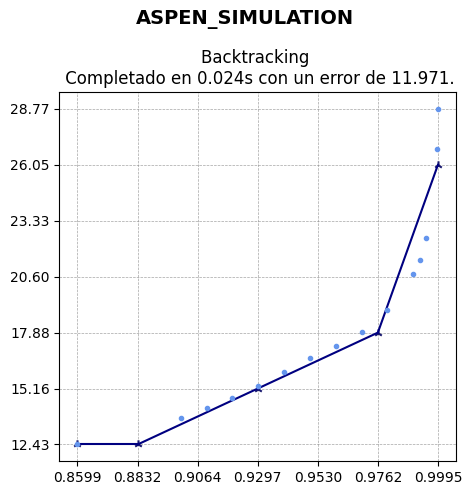
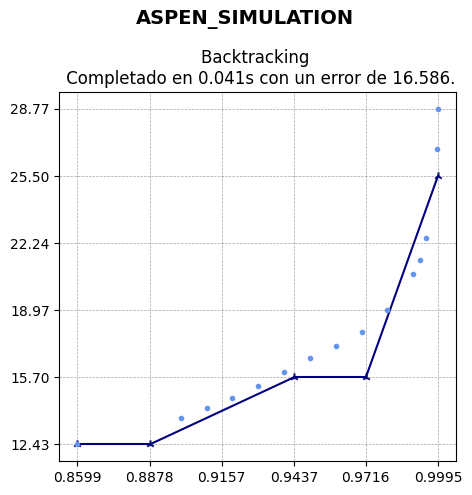
testing

diff --git a/src/python/programaciondinamica.py b/src/python/programaciondinamica.py
@@ -1,65 +1,46 @@
 import json
 import numpy as np
+import os
+import time
 
-def calcular_error(a: tuple, b: tuple, grid_x, grid_y, instance):
-    # Inicializa el error acumulado a 0.
-    error = 0
-    
-    # Extrae las coordenadas x e y para el punto a y b usando los índices de a en las grillas grid_x y grid_y.
-    ax, ay = grid_x[a[0]], grid_y[a[1]]
-    bx, by = grid_x[b[0]], grid_y[b[1]]
-    
-    # Itera sobre cada punto x en el conjunto de datos.
-    for i, x in enumerate(instance["x"]):
-        # Si el punto actual x está entre ax y bx...
-        if ax <= x <= bx:
-            # Calculamos el valor de y predicho por la recta que pasa por a y b.
-            predicted_y = ((by - ay) / (bx - ax)) * (x - ax) + ay
-            # Acumulamos el error absoluto entre el y predicho y el y real para este punto.
-            error += abs(instance["y"][i] - predicted_y)
-    
-    # Devuelve el error total acumulado para todos los puntos en el rango de interés.
-    return error
+from graphing import plot_graph
+from shared import calcular_error
 
 def programacion_dinamica_recursiva(m, n, N, instance, i, bp, error_total, combinaciones, memoria, grid_x, grid_y):
     # Si se han alcanzado N breakpoints, registra la combinación actual y su error total.
-    if len(bp) == N and bp[-1][0] == m-1:
+    if len(bp) == N and bp[-1][0] == m-1 and bp[0][0] == 0:
         combinaciones[tuple(bp)] = round(error_total, 3)
-        #print(combinaciones)
         return bp, error_total, combinaciones
-
 
     if not bp:
         # Si es el primer breakpoint, llama recursivamente sin añadir error.
         for z in range(m):
             new_bp = [(0,z)]
             programacion_dinamica_recursiva(m, n, N, instance, 0, new_bp, error_total,combinaciones, memoria, grid_x, grid_y)
-
-    
+    elif len(bp)< N: #Magia de luli.
     # Itera sobre todas las posibles posiciones y para el próximo breakpoint.
-    for j in range(m):
-        # Verifica si aún se pueden agregar breakpoints.
-        for k in range(i+1,n):
-            # Crea una nueva lista de breakpoints añadiendo el punto actual (next_i, j).
-            new_bp = bp + [(k, j)]
-            # Si ya hay breakpoints, calcula el error con el nuevo punto.
-            if bp:
-                error = calcular_error(bp[-1], (k, j), grid_x, grid_y, instance)
-                # Si la clave está en memoria significa que ya calculé su error.
-                if (str(k)+","+str(j)) in memoria:
-                    # Si el error almacenado es mayor al actual
-                    if memoria[str(k)+","+str(j)] > error_total + error:
-                        # Lo actualizo, no era el mínimo. 
+        for j in range(m):
+            # Verifica si aún se pueden agregar breakpoints.
+            for k in range(i+1,n):
+                # Calcula el índice del próximo punto x a agregar, limitado por el último índice de la grilla (m - 1).
+
+                # Crea una nueva lista de breakpoints añadiendo el punto actual (next_i, j).
+                new_bp = bp + [(k, j)]
+
+                # Si ya hay breakpoints, calcula el error con el nuevo punto.
+                if bp:
+                    error = calcular_error(bp[-1], (k, j), grid_x, grid_y, instance)
+                    if (str(k)+","+str(j)) in memoria:
+                        if memoria[str(k)+","+str(j)] > error_total + error:
+                            memoria[str(k)+","+str(j)] = error_total + error
+                            programacion_dinamica_recursiva(m, n, N, instance, k, new_bp, error_total + error,combinaciones, memoria, grid_x, grid_y)
+                        elif(memoria[str(k)+","+str(j)] == error_total + error):
+                            programacion_dinamica_recursiva(m, n, N, instance, k, new_bp, error_total + error,combinaciones, memoria, grid_x, grid_y)
+                    else:
                         memoria[str(k)+","+str(j)] = error_total + error
                         programacion_dinamica_recursiva(m, n, N, instance, k, new_bp, error_total + error,combinaciones, memoria, grid_x, grid_y)
-                    # Si lo que está almacenado tiene el mismo error que el actual, sigue con la recurisón.
-                    elif(memoria[str(k)+","+str(j)] == error_total + error):
-                        programacion_dinamica_recursiva(m, n, N, instance, k, new_bp, error_total + error,combinaciones, memoria, grid_x, grid_y)
-                else:
-                    # Si entra a esta instancia significa que no había nada en memoria, agrego el valor. 
-                    memoria[str(k)+","+str(j)] = error_total + error
+
                     # Llama recursivamente para agregar el próximo breakpoint con el nuevo error total.
-                    programacion_dinamica_recursiva(m, n, N, instance, k, new_bp, error_total + error,combinaciones, memoria, grid_x, grid_y)
 
     # Retorna la lista actual de breakpoints, el error total acumulado y el diccionario de combinaciones probadas.
     return bp, error_total, combinaciones
@@ -77,7 +58,7 @@ def programacion_dinamica(m, n, N, instance):
     # REVISAR
     top_combinaciones = sorted(combinaciones.items(), key=lambda item: item[1])[:5]
     
-    print(f"Top 5 Combinaciones de {len(memoria)}:")
+    print(f"Top 5 Combinaciones de {len(combinaciones)}:")
     for idx, (comb, error) in enumerate(top_combinaciones, 1):
         print(f"{idx}: {comb} con error: {error}")
         # Extract the best combination

diff --git a/src/python/shared.py b/src/python/shared.py
@@ -1,0 +1,21 @@
+
+
+def calcular_error(a: tuple, b: tuple, grid_x, grid_y, instance):
+    # Inicializa el error acumulado a 0.
+    error = 0
+
+    # Extrae las coordenadas x e y para el punto a y b usando los índices de a en las grillas grid_x y grid_y.
+    ax, ay = grid_x[a[0]], grid_y[a[1]]
+    bx, by = grid_x[b[0]], grid_y[b[1]]
+
+    # Itera sobre cada punto x en el conjunto de datos.
+    for i, x in enumerate(instance["x"]):
+        # Si el punto actual x está entre ax y bx...
+        if ax <= x <= bx:
+            # Calculamos el valor de y predicho por la recta que pasa por a y b.
+            predicted_y = ((by - ay) / (bx - ax)) * (x - ax) + ay
+            # Acumulamos el error absoluto entre el y predicho y el y real para este punto.
+            error += abs(instance["y"][i] - predicted_y)
+
+    # Devuelve el error total acumulado para todos los puntos en el rango de interés.
+    return error

diff --git a/src/python/mainProgramacionDinamica.py b/src/python/mainProgramacionDinamica.py
@@ -17,7 +17,7 @@ def main():
 
         m = 6
         n = 6
-        N = 2
+        N = 5
         
         start_time = time.time()
 

diff --git a/src/python/mainBacktracking.py b/src/python/mainBacktracking.py
@@ -17,7 +17,7 @@ def main():
 
         m = 6
         n = 6
-        N = 2
+        N = 5
 
         start_time = time.time()
 
